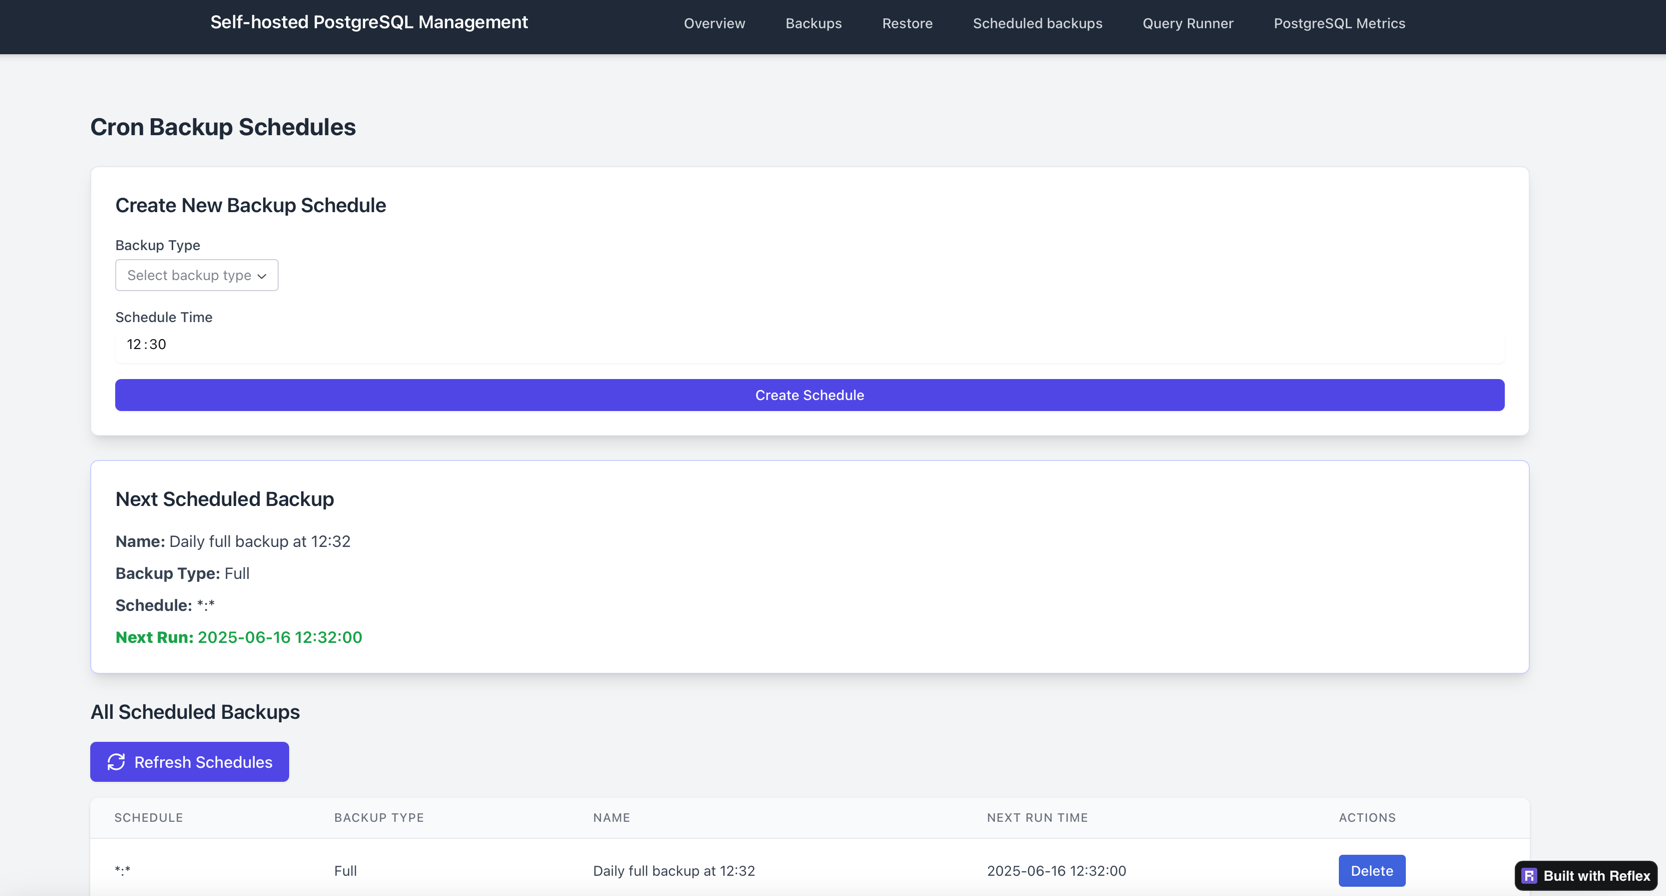
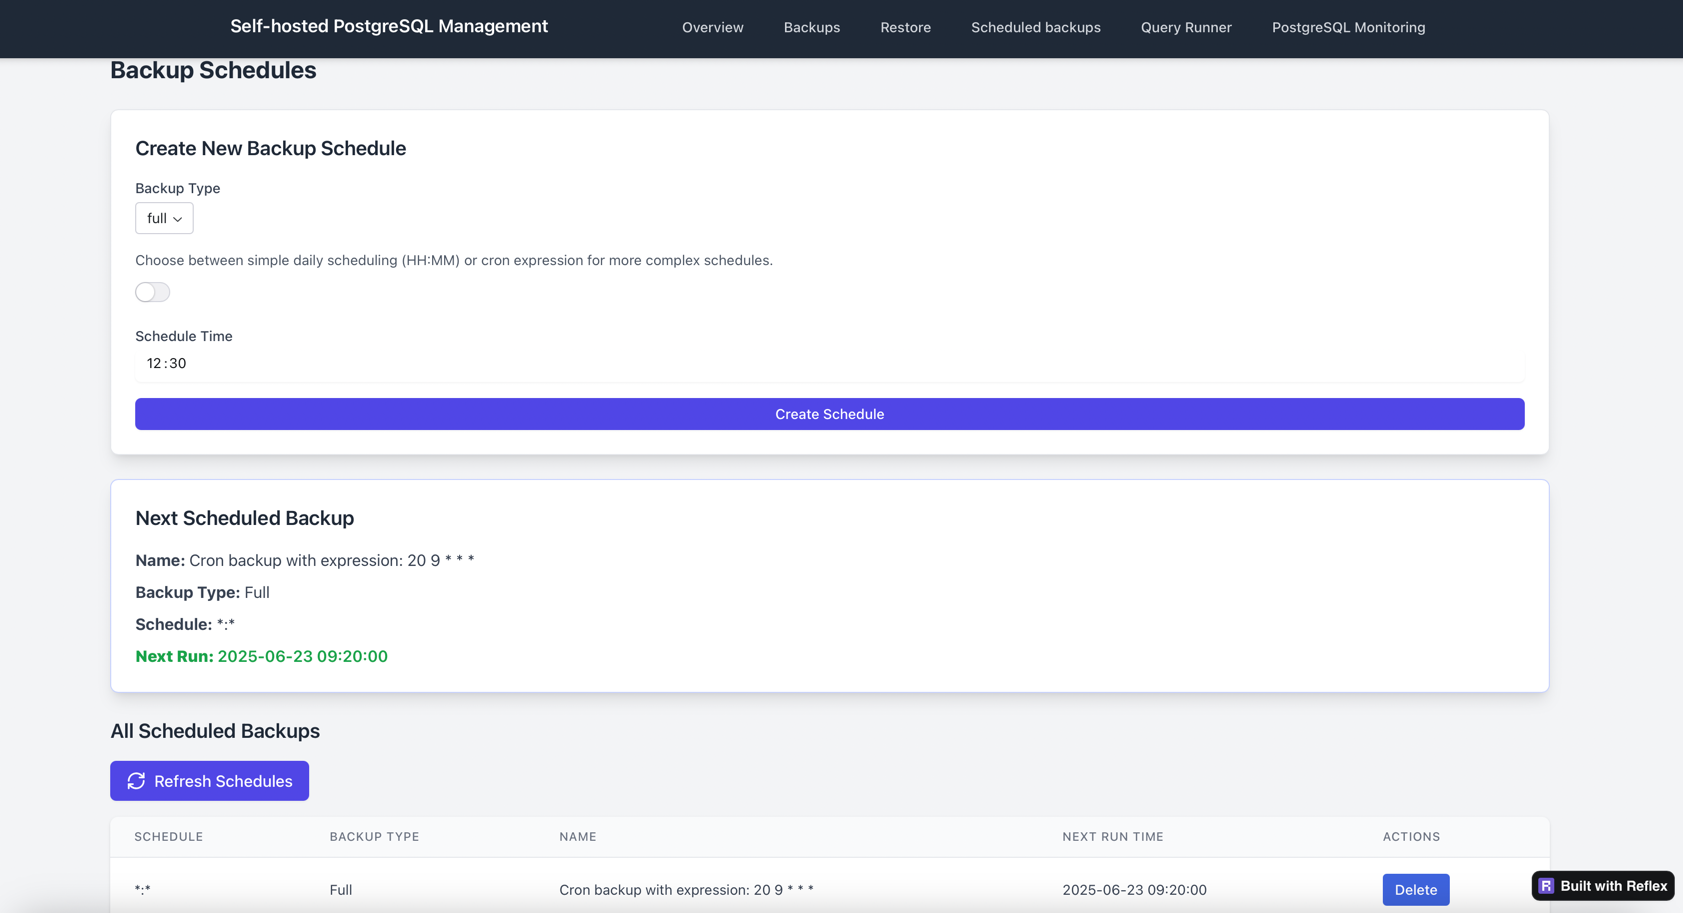
fix: add cron schedule by cron expression

diff --git a/backup-manager/self_hosted_postgresql_management/states/cron_state.py b/backup-manager/self_hosted_postgresql_management/states/cron_state.py
@@ -14,6 +14,8 @@ class CronState(rx.State):
     is_loading: bool = False
     selected_job_type: str = ""
     selected_schedule_time: str = ""
+    use_cron_expression: bool = False
+    cron_expression: str = ""
 
     @rx.event
     def set_job_type(self, value: str):
@@ -23,32 +25,44 @@ class CronState(rx.State):
     def set_schedule_time(self, value: str):
         self.selected_schedule_time = value
 
+    @rx.event
+    def toggle_schedule_type(self):
+        self.use_cron_expression = not self.use_cron_expression
+        self.selected_schedule_time = ""
+        self.cron_expression = ""
+
+    @rx.event
+    def set_cron_expression(self, value: str):
+        self.cron_expression = value
+
     @rx.event(background=True)
     async def load_cron_jobs(self):
         async with self:
             self.is_loading = True
             yield
         try:
-            # First load active jobs from database
             with rx.session() as session:
                 db_jobs = session.exec(
                     ScheduledBackup.select().where(ScheduledBackup.is_active == True)
                 ).all()
                 
-                # Add any jobs from database that aren't in scheduler
                 for db_job in db_jobs:
                     try:
-                        hour, minute = map(int, db_job.schedule.split(":"))
-                        await asyncio.to_thread(
-                            _scheduler_service.add_backup_job,
-                            job_type=db_job.backup_type,
-                            hour=hour,
-                            minute=minute
-                        )
+                        if len(db_job.schedule.split(":")) != 2:
+                            await asyncio.to_thread(_scheduler_service.add_backup_job_by_cron,
+                                                    job_type=db_job.backup_type,
+                                                    cron=db_job.schedule)
+                        else:
+                            hour, minute = map(int, db_job.schedule.split(":"))
+                            await asyncio.to_thread(
+                                _scheduler_service.add_backup_job,
+                                job_type=db_job.backup_type,
+                                hour=hour,
+                                minute=minute
+                            )
                     except Exception as e:
                         log.error(f"Failed to restore job from database: {e}")
 
-            # Now get all jobs from scheduler
             jobs = await asyncio.to_thread(
                 _scheduler_service.get_all_jobs
             )
@@ -70,40 +84,58 @@ class CronState(rx.State):
         try:
             job_type = self.selected_job_type
             schedule_time = self.selected_schedule_time
+            cron_expr = self.cron_expression
 
             if not job_type or job_type not in ["full", "incr", "diff"]:
                 async with self:
                     yield rx.toast.error(f"Invalid backup type selected: {job_type}")
                 return
 
-            if not schedule_time:
-                async with self:
-                    yield rx.toast.error("Please select a schedule time")
-                return
+            if self.use_cron_expression:
+                if not cron_expr:
+                    async with self:
+                        yield rx.toast.error("Please enter a cron expression")
+                    return
+                
+                try:
+                    job = await asyncio.to_thread(
+                        _scheduler_service.add_backup_job_by_cron,
+                        job_type=job_type,
+                        cron=cron_expr
+                    )
+                except ValueError as e:
+                    async with self:
+                        yield rx.toast.error(f"Invalid cron expression: {str(e)}")
+                    return
+            else:
+                if not schedule_time:
+                    async with self:
+                        yield rx.toast.error("Please select a schedule time")
+                    return
 
-            try:
-                hour, minute = map(int, schedule_time.split(":"))
-            except ValueError:
-                async with self:
-                    yield rx.toast.error("Invalid time format")
-                return
+                try:
+                    hour, minute = map(int, schedule_time.split(":"))
+                except ValueError:
+                    async with self:
+                        yield rx.toast.error("Invalid time format")
+                    return
 
-            if not (0 <= hour <= 23):
-                async with self:
-                    yield rx.toast.error("Hour must be between 0 and 23")
-                return
+                if not (0 <= hour <= 23):
+                    async with self:
+                        yield rx.toast.error("Hour must be between 0 and 23")
+                    return
 
-            if not (0 <= minute <= 59):
-                async with self:
-                    yield rx.toast.error("Minute must be between 0 and 59")
-                return
+                if not (0 <= minute <= 59):
+                    async with self:
+                        yield rx.toast.error("Minute must be between 0 and 59")
+                    return
 
-            job = await asyncio.to_thread(
-                _scheduler_service.add_backup_job,
-                job_type=job_type,
-                hour=hour,
-                minute=minute
-            )
+                job = await asyncio.to_thread(
+                    _scheduler_service.add_backup_job,
+                    job_type=job_type,
+                    hour=hour,
+                    minute=minute
+                )
             
             with rx.session() as session:
                 db_job = ScheduledBackup(
@@ -119,6 +151,7 @@ class CronState(rx.State):
             async with self:
                 self.selected_job_type = ""
                 self.selected_schedule_time = ""
+                self.cron_expression = ""
                 yield rx.toast.success(f"Successfully created {job_type} backup schedule")
             yield CronState.load_cron_jobs
         except Exception as e:

diff --git a/backup-manager/self_hosted_postgresql_management/pages/cron_page.py b/backup-manager/self_hosted_postgresql_management/pages/cron_page.py
@@ -187,21 +187,57 @@ def create_backup_form() -> rx.Component:
                 class_name="mb-4",
             ),
             rx.el.div(
-                rx.el.label(
-                    "Schedule Time",
-                    class_name="block text-sm font-medium text-gray-700 mb-1",
-                ),
                 rx.el.div(
-                    rx.input(
-                        type="time",
-                        id="schedule_time",
-                        on_change=CronState.set_schedule_time,
-                        value=CronState.selected_schedule_time,
-                        class_name="mt-1 block w-full rounded-md border-gray-300 shadow-sm focus:border-indigo-500 focus:ring-indigo-500 sm:text-sm",
+                    rx.text(
+                        "Choose between simple daily scheduling (HH:MM) or  cron expression for more complex schedules.",
+                        class_name="text-sm text-gray-600 mb-3",
                     ),
-                    class_name="relative",
+                    rx.switch(
+                        "Use Cron Expression",
+                        on_change=CronState.toggle_schedule_type,
+                        is_checked=CronState.use_cron_expression,
+                        class_name="mb-2",
+                    ),
+                    class_name="mb-4",
                 ),
-                class_name="mb-4",
+                rx.cond(
+                    CronState.use_cron_expression,
+                    rx.el.div(
+                        rx.el.label(
+                            "Cron Expression",
+                            class_name="block text-sm font-medium text-gray-700 mb-1",
+                        ),
+                        rx.input(
+                            placeholder="Enter cron expression (e.g. 0 2 * * *)",
+                            id="cron_expression",
+                            on_change=CronState.set_cron_expression,
+                            value=CronState.cron_expression,
+                            class_name="mt-1 block w-full rounded-md border-gray-300 shadow-sm focus:border-indigo-500 focus:ring-indigo-500 sm:text-sm",
+                        ),
+                        rx.text(
+                            "Format: minute hour day month weekday (e.g. 0 2 * * * for daily at 2 AM)",
+                            class_name="mt-1 text-sm text-gray-500",
+                        ),
+                        class_name="mb-4",
+                    ),
+                    rx.el.div(
+                        rx.el.label(
+                            "Schedule Time",
+                            class_name="block text-sm font-medium text-gray-700 mb-1",
+                        ),
+                        rx.el.div(
+                            rx.input(
+                                type="time",
+                                id="schedule_time",
+                                on_change=CronState.set_schedule_time,
+                                value=CronState.selected_schedule_time,
+                                class_name="mt-1 block w-full rounded-md border-gray-300 shadow-sm focus:border-indigo-500 focus:ring-indigo-500 sm:text-sm",
+                            ),
+                            class_name="relative",
+                        ),
+                        class_name="mb-4",
+                    ),
+                ),
             ),
             rx.button(
                 "Create Schedule",
@@ -217,7 +253,7 @@ def create_backup_form() -> rx.Component:
 def cron_page() -> rx.Component:
     return rx.el.div(
         rx.el.h2(
-            "Cron Backup Schedules",
+            "Backup Schedules",
             class_name="text-2xl font-bold text-gray-800 mb-6",
         ),
         create_backup_form(),

diff --git a/backup-manager/self_hosted_postgresql_management/services/scheduler_service.py b/backup-manager/self_hosted_postgresql_management/services/scheduler_service.py
@@ -19,13 +19,18 @@ async def load_cron_jobs():
     scheduler_service = SchedulerService()
     for db_job in db_jobs:
         try:
-            hour, minute = map(int, db_job.schedule.split(":"))
-            await asyncio.to_thread(
-                scheduler_service.add_backup_job,
-                job_type=db_job.backup_type,
-                hour=hour,
-                minute=minute
-            )
+            if len(db_job.schedule.split(":")) != 2:
+                await asyncio.to_thread(scheduler_service.add_backup_job_by_cron,
+                                        job_type=db_job.backup_type,
+                                        cron=db_job.schedule)
+            else:
+                hour, minute = map(int, db_job.schedule.split(":"))
+                await asyncio.to_thread(
+                    scheduler_service.add_backup_job,
+                    job_type=db_job.backup_type,
+                    hour=hour,
+                    minute=minute
+                )
         except Exception as e:
             log.error(f"Failed to restore job from database: {e}")
 
@@ -42,14 +47,7 @@ class SchedulerService(metaclass=Singleton):
     def add_backup_job(self, job_type: str, hour: int, minute: int) -> ScheduledJob:
         job_id = f"{job_type}_backup_{hour}_{minute}"
 
-        if job_type == "incr":
-            job_func = self.backup_service.create_incremental_backup
-        elif job_type == "diff":
-            job_func = self.backup_service.create_diff_backup
-        elif job_type == "full":
-            job_func = self.backup_service.create_full_backup
-        else:
-            raise ValueError(f"Invalid backup type: {job_type}")
+        job_func = self.get_job_type_by_name(job_type)
 
         job = self.scheduler.add_job(
             job_func,
@@ -63,6 +61,35 @@ class SchedulerService(metaclass=Singleton):
                             type=job_type,
                             schedule=f"{hour:02d}:{minute:02d}",
                             next_run=job.next_run_time.isoformat() if job.next_run_time else None)
+
+    def add_backup_job_by_cron(self, job_type: str, cron: str) -> ScheduledJob:
+        job_id = f"{job_type}_backup_{cron}"
+        log.info(f"Creating backup job by cron expression: {cron}")
+        job_func = self.get_job_type_by_name(job_type)
+
+        job = self.scheduler.add_job(
+            job_func,
+            trigger=CronTrigger.from_crontab(cron),
+            id=job_id,
+            name=f"Cron backup with expression: {cron}",
+            replace_existing=True
+        )
+        return ScheduledJob(id=job.id,
+                            name=job.name,
+                            type=job_type,
+                            schedule=f"{cron}",
+                            next_run=job.next_run_time.isoformat() if job.next_run_time else None)
+
+    def get_job_type_by_name(self, job_type):
+        if job_type == "incr":
+            job_func = self.backup_service.create_incremental_backup
+        elif job_type == "diff":
+            job_func = self.backup_service.create_diff_backup
+        elif job_type == "full":
+            job_func = self.backup_service.create_full_backup
+        else:
+            raise ValueError(f"Invalid backup type: {job_type}")
+        return job_func
 
     def get_all_jobs(self) -> List[ScheduledJob]:
         jobs = []

diff --git a/backup-manager/self_hosted_postgresql_management/db/database_models.py b/backup-manager/self_hosted_postgresql_management/db/database_models.py
@@ -1,6 +1,8 @@
 import datetime
 from typing import Optional
 import reflex as rx
+from apscheduler.triggers.cron import CronTrigger
+
 
 class QueryHistory(rx.Model, table=True):
     timestamp_start: datetime.datetime
@@ -24,7 +26,7 @@ class ScheduledBackup(rx.Model, table=True):
     job_id: str
     name: str
     backup_type: str
-    schedule: str  # Format: "HH:MM"
+    schedule: str  # Format: "HH:MM" or cron
     is_active: bool = True
 
     @property
@@ -32,15 +34,15 @@ class ScheduledBackup(rx.Model, table=True):
         """Compute the next run time based on the schedule."""
         if not self.is_active:
             return None
-            
         try:
-            hour, minute = map(int, self.schedule.split(":"))
             now = datetime.datetime.now()
-            next_run = now.replace(hour=hour, minute=minute, second=0, microsecond=0)
-            
-            # If the time has already passed today, schedule for tomorrow
-            if next_run <= now:
-                next_run += datetime.timedelta(days=1)
+            if len(self.schedule.split(":")) != 2:
+                next_run = CronTrigger.from_crontab(self.schedule).get_next_fire_time(None, now)
+            else:
+                hour, minute = map(int, self.schedule.split(":"))
+                next_run = now.replace(hour=hour, minute=minute, second=0, microsecond=0)
+                if next_run <= now:
+                    next_run += datetime.timedelta(days=1)
                 
             return next_run
         except (ValueError, TypeError):
